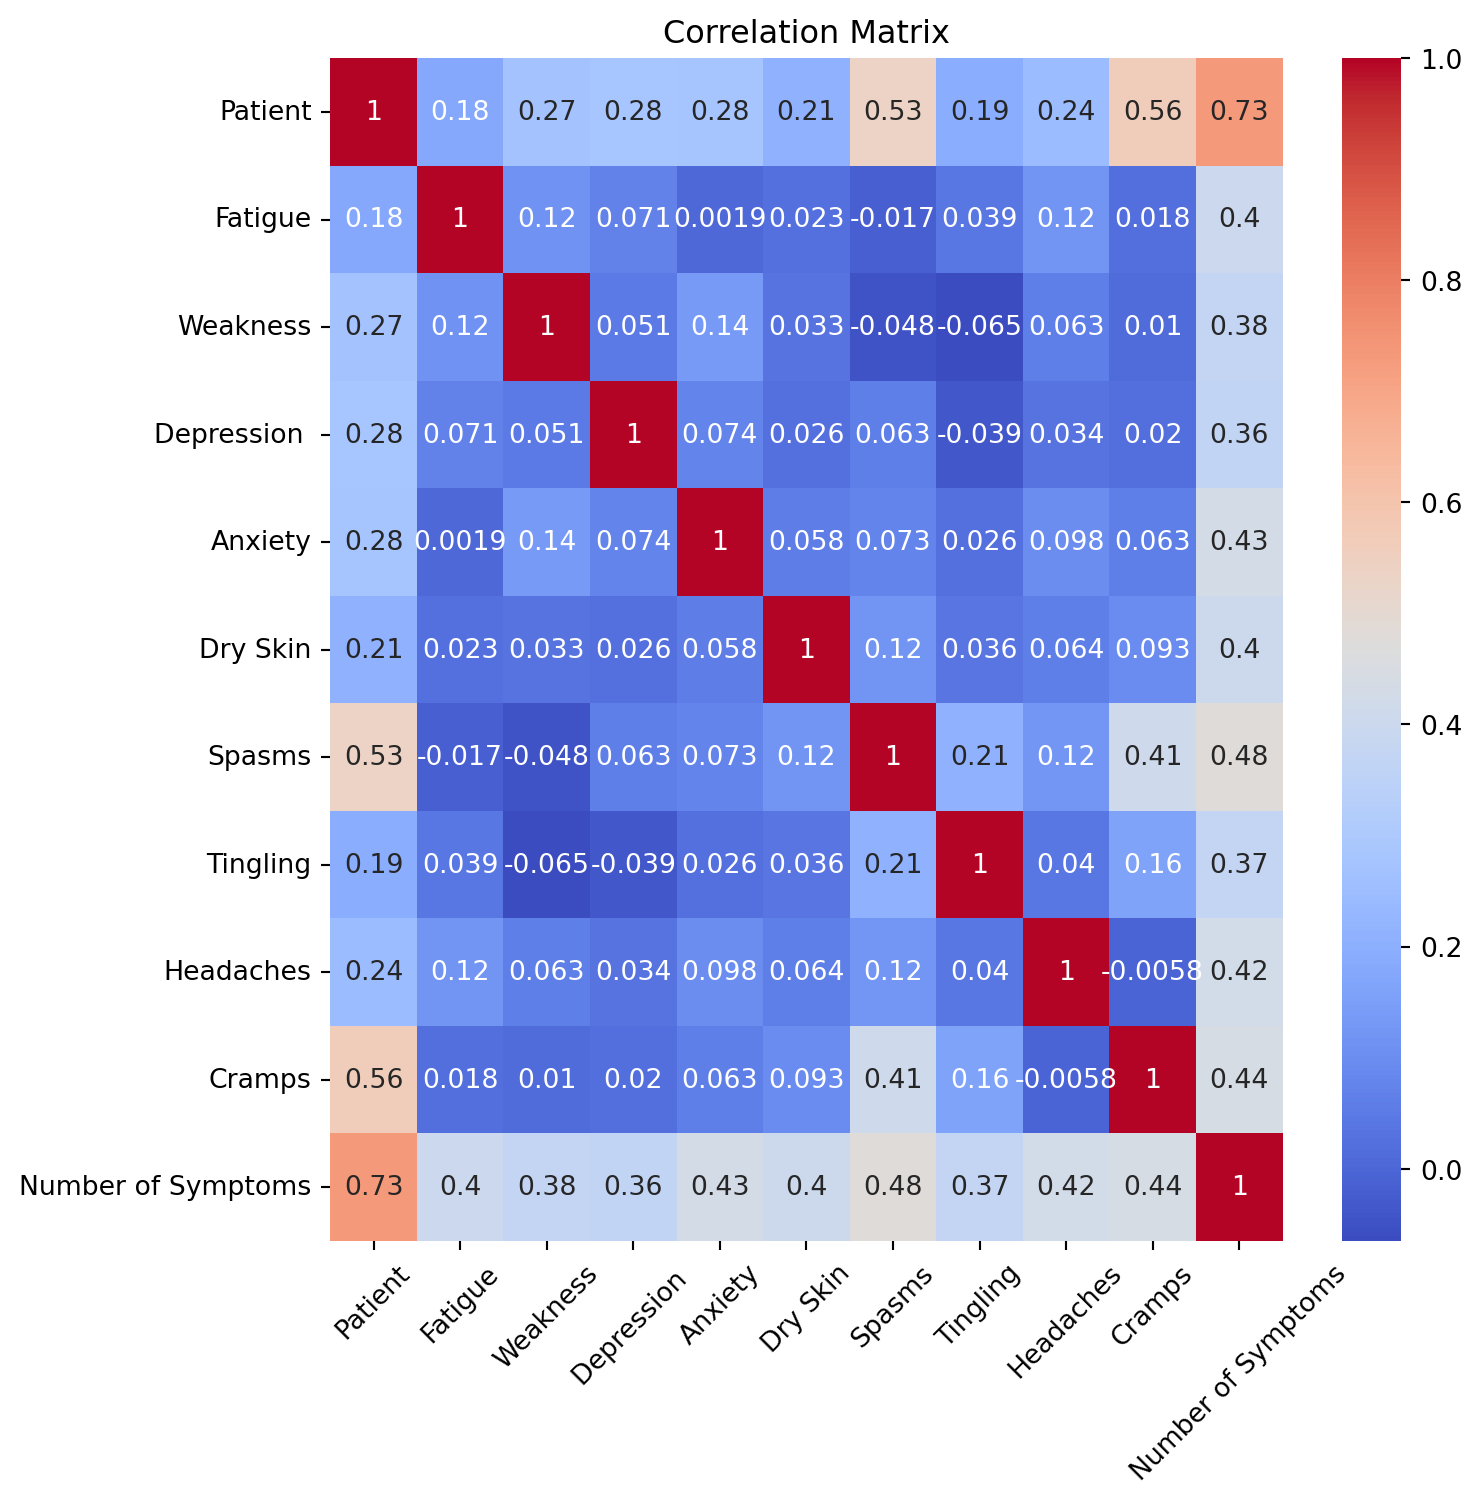
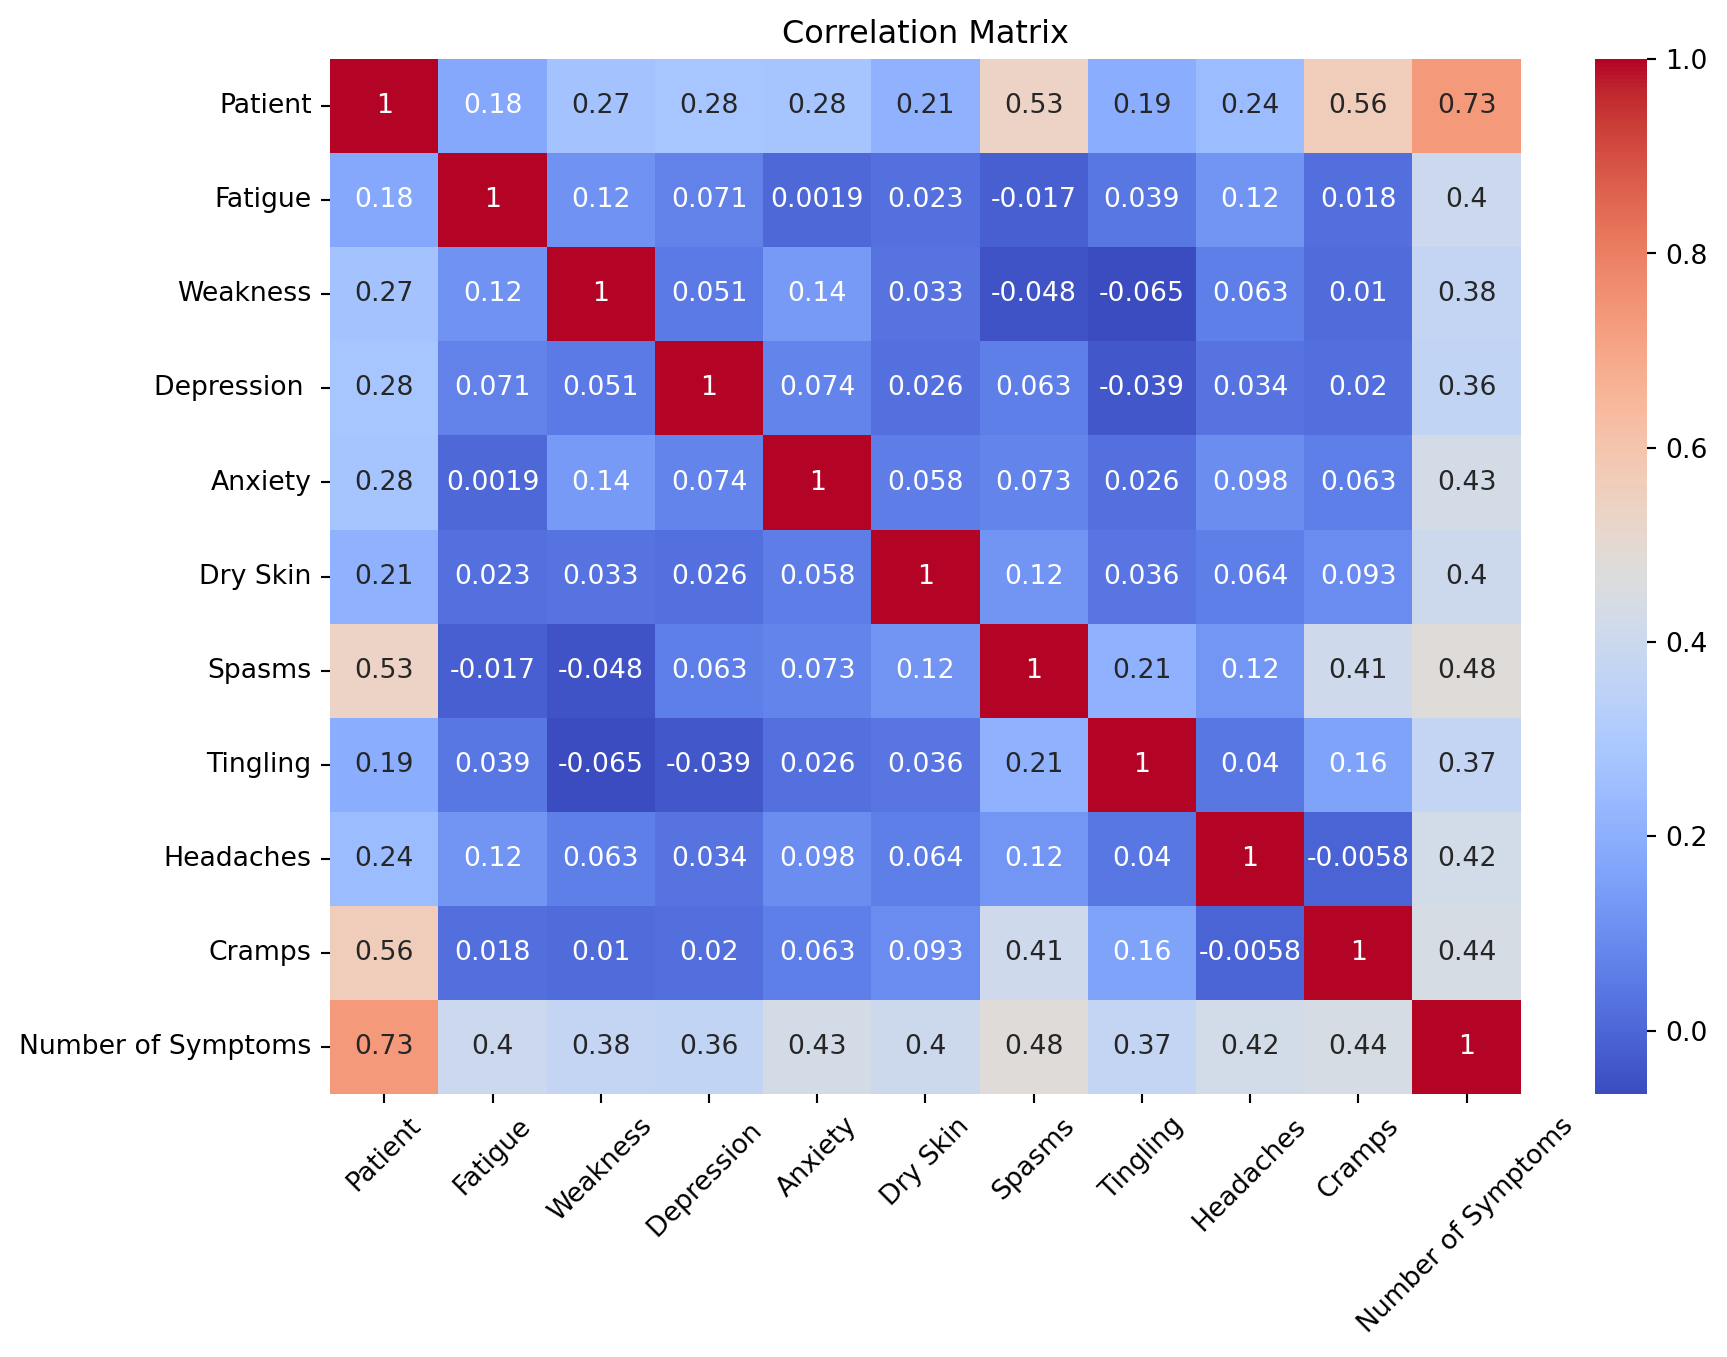
Version 1.9748

Changed region(s): [[0.0, 0.0, 0.9939, 0.9285], [0.7454, 0.8357, 0.9007, 0.9904]]

diff --git a/docs/posts/PredictSeverityLevels/index.html b/docs/posts/PredictSeverityLevels/index.html
@@ -360,7 +360,7 @@ code span.wa { color: #60a0b0; font-weight: bold; font-style: italic; } /* Warni
 <span id="cb1-27"><a href="#cb1-27" aria-hidden="true" tabindex="-1"></a><span class="co"># Load the dataset</span></span>
 <span id="cb1-28"><a href="#cb1-28" aria-hidden="true" tabindex="-1"></a>ds <span class="op">=</span> pd.read_csv(<span class="st">"severityLevels.csv"</span>)  </span>
 <span id="cb1-29"><a href="#cb1-29" aria-hidden="true" tabindex="-1"></a>ds.head(<span class="dv">10</span>)  <span class="co"># Display the first 10 rows of the dataset</span></span></code><button title="Copy to Clipboard" class="code-copy-button"><i class="bi"></i></button></pre></div>
-<div class="cell-output cell-output-display" data-execution_count="1">
+<div class="cell-output cell-output-display" data-execution_count="23">
 
 <div>
 
@@ -543,7 +543,7 @@ code span.wa { color: #60a0b0; font-weight: bold; font-style: italic; } /* Warni
 <div class="cell" data-execution_count="2">
 <div class="sourceCode cell-code" id="cb2"><pre class="sourceCode python code-with-copy"><code class="sourceCode python"><span id="cb2-1"><a href="#cb2-1" aria-hidden="true" tabindex="-1"></a><span class="co"># Display basic statistics of the dataset</span></span>
 <span id="cb2-2"><a href="#cb2-2" aria-hidden="true" tabindex="-1"></a>ds.describe()</span></code><button title="Copy to Clipboard" class="code-copy-button"><i class="bi"></i></button></pre></div>
-<div class="cell-output cell-output-display" data-execution_count="2">
+<div class="cell-output cell-output-display" data-execution_count="24">
 
 <div>
 
@@ -703,7 +703,7 @@ code span.wa { color: #60a0b0; font-weight: bold; font-style: italic; } /* Warni
 <span id="cb4-2"><a href="#cb4-2" aria-hidden="true" tabindex="-1"></a>corr_matrix <span class="op">=</span> ds.corr()</span>
 <span id="cb4-3"><a href="#cb4-3" aria-hidden="true" tabindex="-1"></a></span>
 <span id="cb4-4"><a href="#cb4-4" aria-hidden="true" tabindex="-1"></a><span class="co"># Visualize the correlation matrix</span></span>
-<span id="cb4-5"><a href="#cb4-5" aria-hidden="true" tabindex="-1"></a>plt.figure(figsize<span class="op">=</span>(<span class="dv">8</span>, <span class="dv">8</span>))</span>
+<span id="cb4-5"><a href="#cb4-5" aria-hidden="true" tabindex="-1"></a>plt.figure(figsize<span class="op">=</span>(<span class="dv">10</span>, <span class="dv">7</span>))</span>
 <span id="cb4-6"><a href="#cb4-6" aria-hidden="true" tabindex="-1"></a>sns.heatmap(corr_matrix, annot<span class="op">=</span><span class="va">True</span>, cmap<span class="op">=</span><span class="st">'coolwarm'</span>)</span>
 <span id="cb4-7"><a href="#cb4-7" aria-hidden="true" tabindex="-1"></a>plt.title(<span class="st">'Correlation Matrix'</span>)</span>
 <span id="cb4-8"><a href="#cb4-8" aria-hidden="true" tabindex="-1"></a>plt.xticks(rotation<span class="op">=</span><span class="dv">45</span>)  <span class="co"># Set rotation to 0 degrees for horizontal x-axis labels</span></span>
@@ -712,7 +712,7 @@ code span.wa { color: #60a0b0; font-weight: bold; font-style: italic; } /* Warni
 <span id="cb4-11"><a href="#cb4-11" aria-hidden="true" tabindex="-1"></a>plt.close()</span>
 <span id="cb4-12"><a href="#cb4-12" aria-hidden="true" tabindex="-1"></a>plt.show()</span></code><button title="Copy to Clipboard" class="code-copy-button"><i class="bi"></i></button></pre></div>
 <div class="cell-output cell-output-display">
-<p><img src="index_files/figure-html/cell-5-output-1.png" width="741" height="752"></p>
+<p><img src="index_files/figure-html/cell-5-output-1.png" width="864" height="679"></p>
 </div>
 </div>
 </section>
@@ -744,7 +744,7 @@ code span.wa { color: #60a0b0; font-weight: bold; font-style: italic; } /* Warni
 <span id="cb5-11"><a href="#cb5-11" aria-hidden="true" tabindex="-1"></a>ds.drop(<span class="st">'Number of Symptoms'</span>, axis<span class="op">=</span><span class="dv">1</span>, inplace<span class="op">=</span><span class="va">True</span>)</span>
 <span id="cb5-12"><a href="#cb5-12" aria-hidden="true" tabindex="-1"></a></span>
 <span id="cb5-13"><a href="#cb5-13" aria-hidden="true" tabindex="-1"></a>ds.head(<span class="dv">10</span>)</span></code><button title="Copy to Clipboard" class="code-copy-button"><i class="bi"></i></button></pre></div>
-<div class="cell-output cell-output-display" data-execution_count="5">
+<div class="cell-output cell-output-display" data-execution_count="27">
 
 <div>
 

diff --git a/docs/projects.html b/docs/projects.html
@@ -174,7 +174,7 @@ ul.task-list li input[type="checkbox"] {
 
 <div class="quarto-listing quarto-listing-container-default" id="listing-listing">
 <div class="list quarto-listing-default">
-<div class="quarto-post image-right" data-index="0" data-categories="Python,Machine Learning,Random Forest,Classification" data-listing-date-sort="1687762800000" data-listing-file-modified-sort="1689646557667" data-listing-reading-time-sort="20.83">
+<div class="quarto-post image-right" data-index="0" data-categories="Python,Machine Learning,Random Forest,Classification" data-listing-date-sort="1687762800000" data-listing-file-modified-sort="1689647211054" data-listing-reading-time-sort="20.83">
 <div class="thumbnail">
 <p><a href="./posts/PredictSeverityLevels/index.html"> <img src="./posts/PredictSeverityLevels/severity.jpeg" class="thumnail-image"> </a></p>
 </div>
